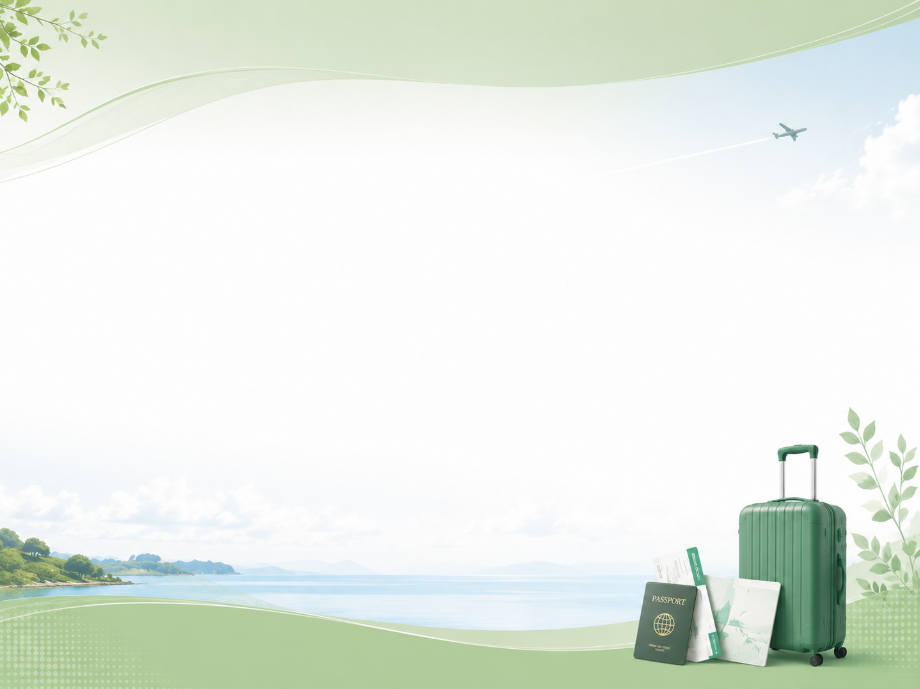
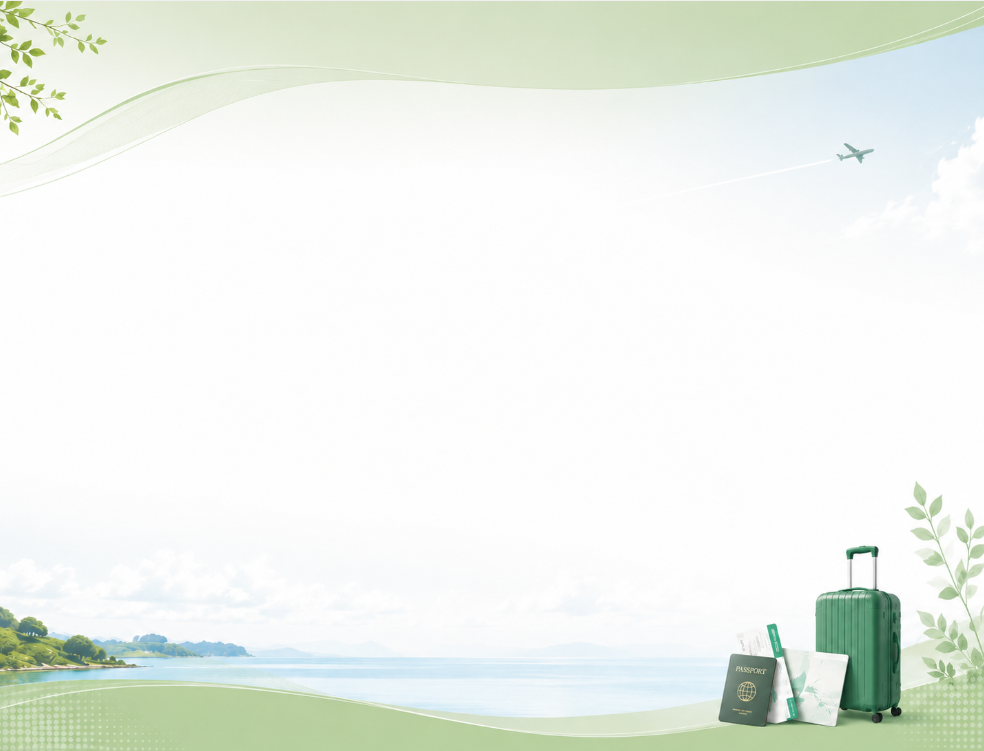
견적서 배경2 이미지 새 버전으로 교체 (?v=2 캐시버스트)

diff --git a/product.html b/product.html
@@ -7765,7 +7765,7 @@ body.quote-doc .qvn-ball{position:absolute;right:12px;bottom:6px;opacity:.95;lin
   body.quote-doc .cg-header,
   body.quote-doc .cg-topband{display:none !important}
   /* 배경: images/quote-bg2.png (파스텔 그린 여행 컨셉) — 밝은 배경이라 글씨는 딥그린 */
-  body.quote-doc .qdoc-mhead{display:block;position:relative;z-index:3;background:linear-gradient(180deg,rgba(255,255,255,.5) 0%,rgba(255,255,255,0) 55%),url('images/quote-bg2.png') center bottom/cover no-repeat,#E7F0E3;color:#174D30;text-align:center;padding:36px 20px 28px}
+  body.quote-doc .qdoc-mhead{display:block;position:relative;z-index:3;background:linear-gradient(180deg,rgba(255,255,255,.5) 0%,rgba(255,255,255,0) 55%),url('images/quote-bg2.png?v=2') center bottom/cover no-repeat,#E7F0E3;color:#174D30;text-align:center;padding:36px 20px 28px}
   .qdoc-mh-title{font-family:'Noto Serif KR',serif;font-size:27px;font-weight:700;letter-spacing:2px;line-height:1.3;color:#174D30}
   .qdoc-mh-sub{margin-top:8px;font-size:13px;font-weight:500;color:#4F7059}
   /* 일행 카드: 흰 반투명 글래스, 배너 안에 배치 */